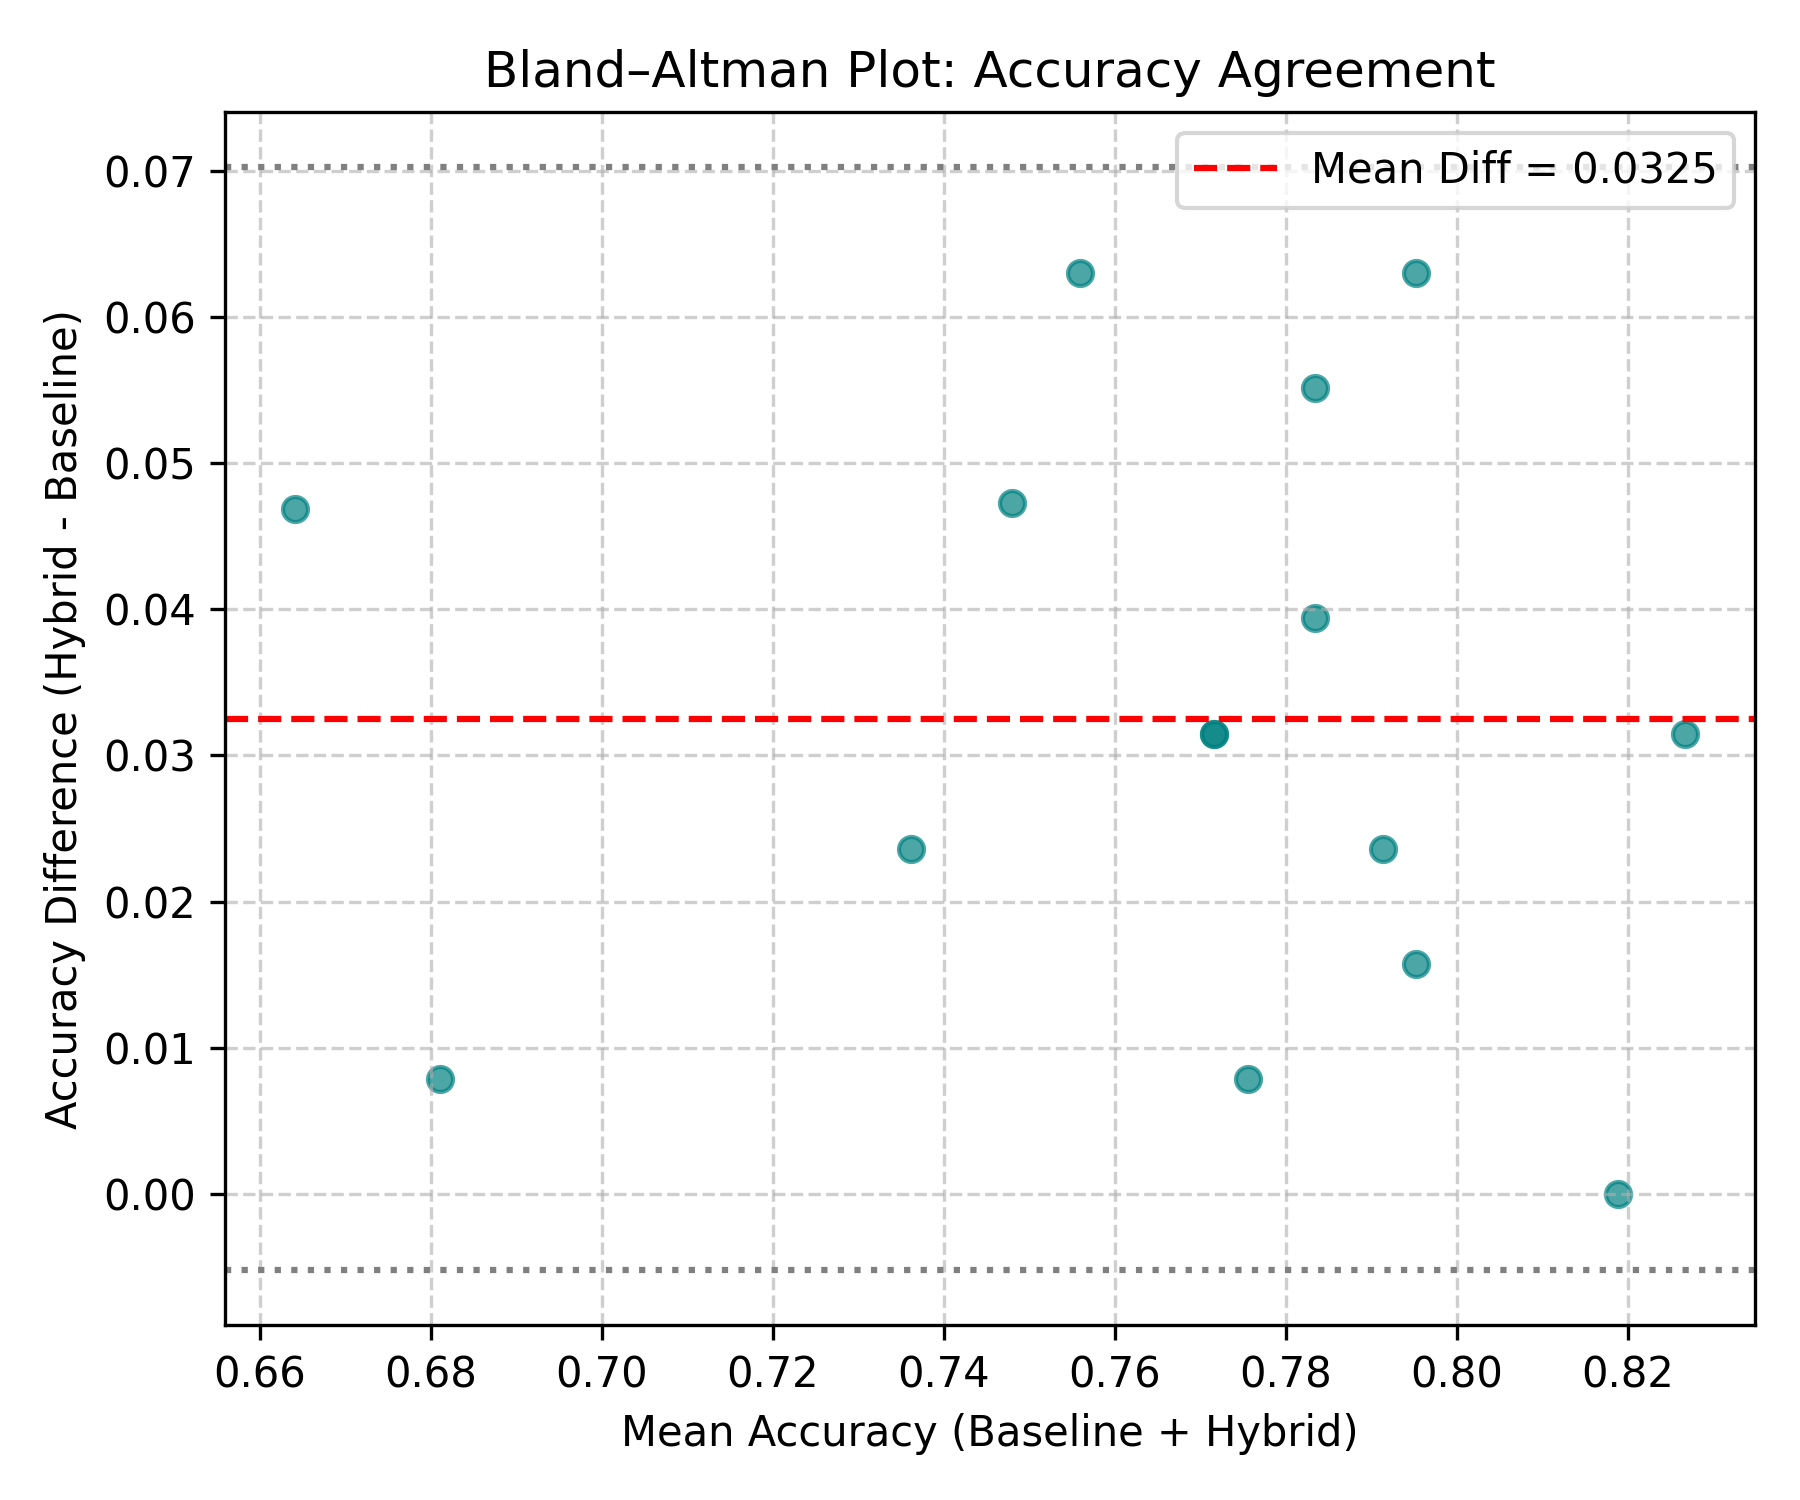
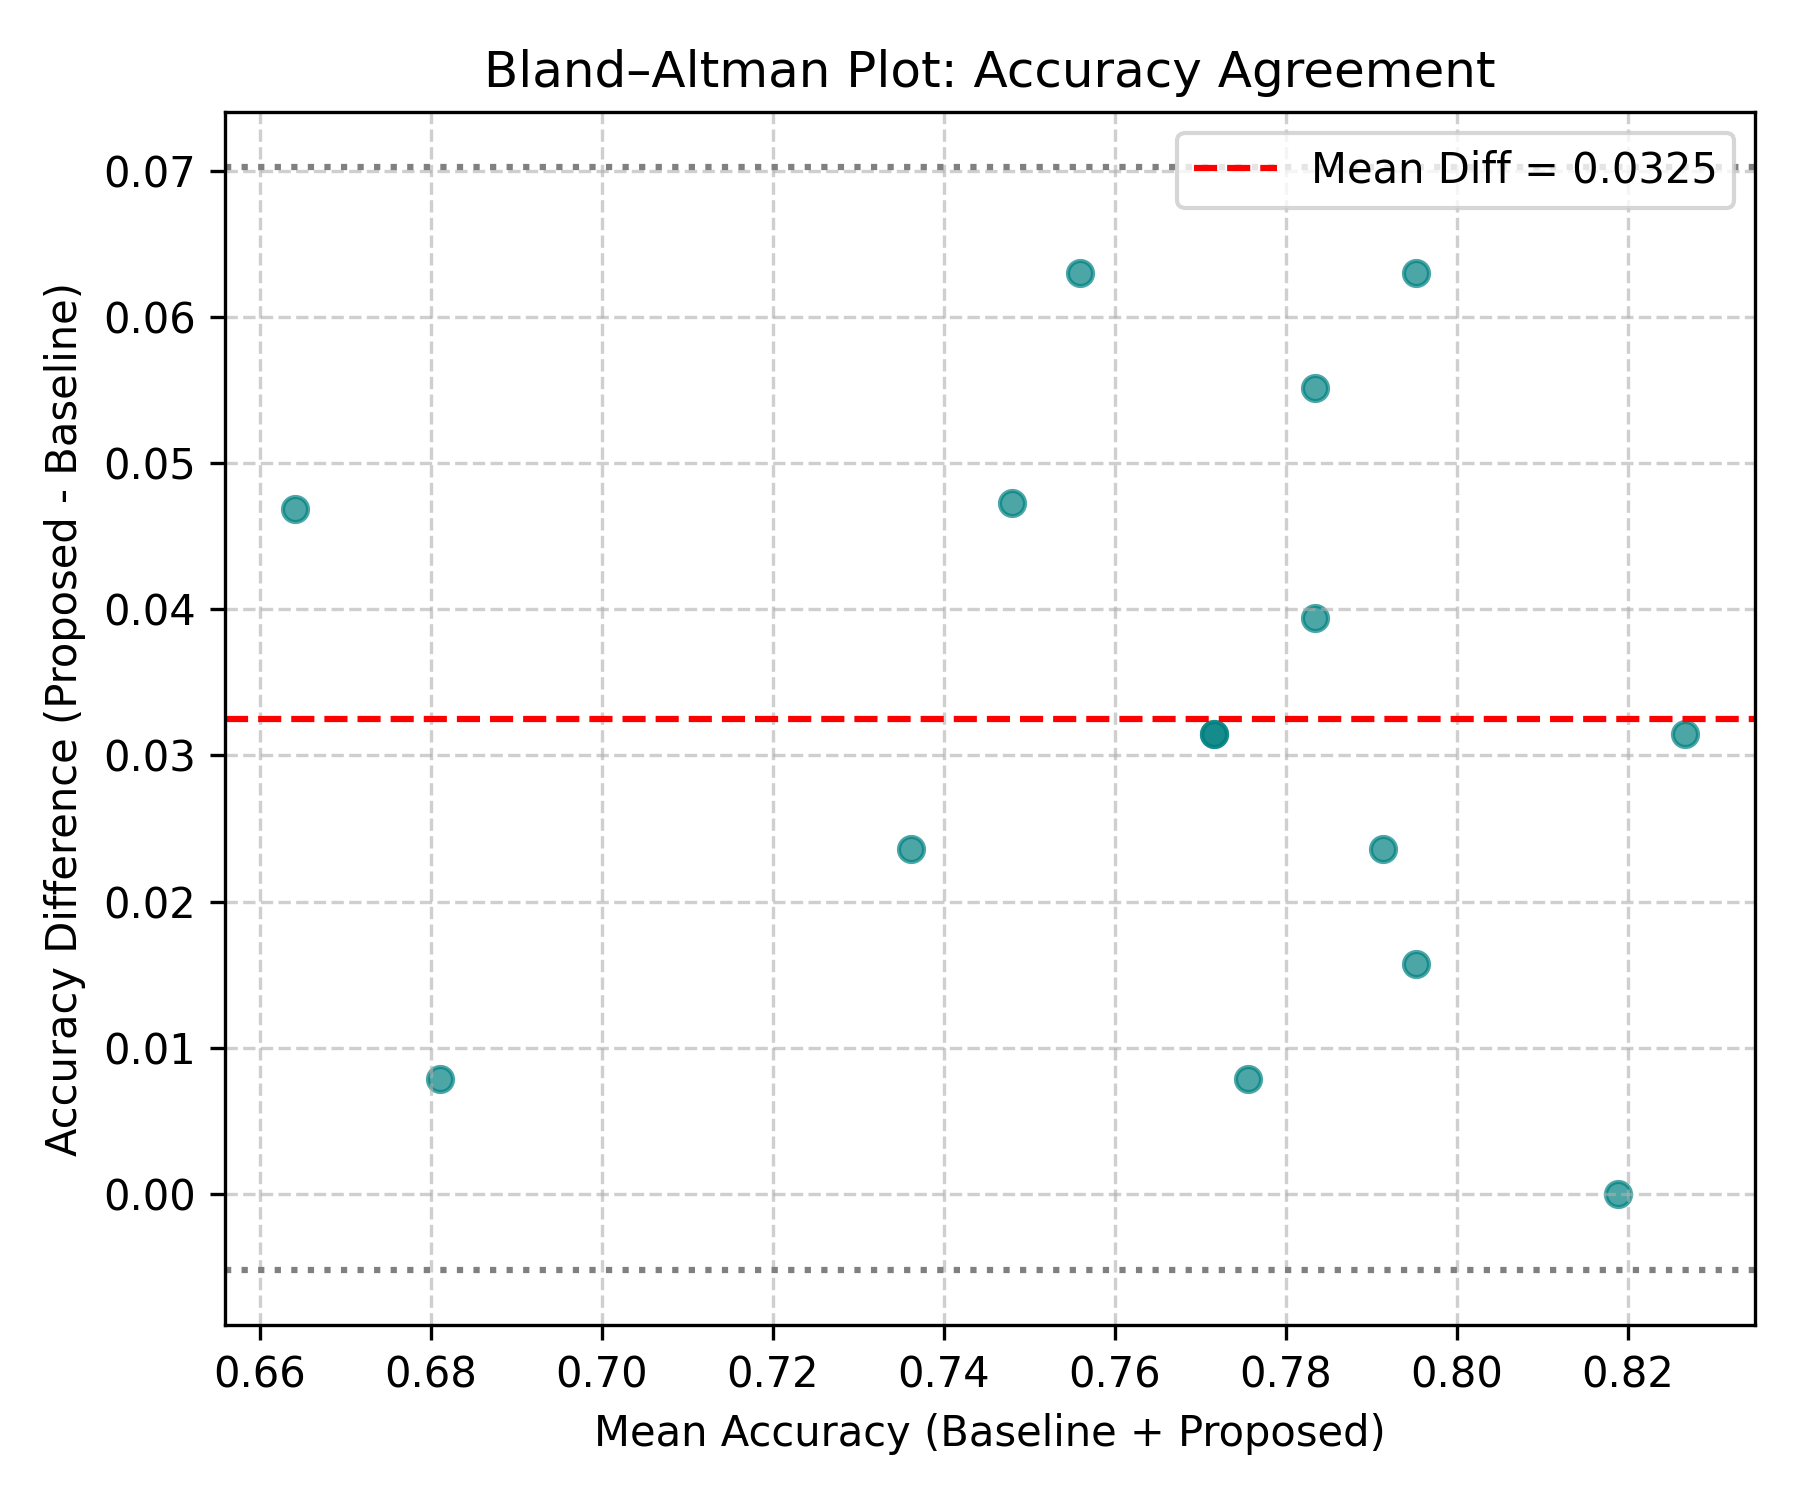
minor corrections

Changed region(s): [[0.0, 0.184, 0.0622, 0.7667], [0.3422, 0.92, 0.7778, 0.9813]]

diff --git a/TikTokThesis/src/baseline_hybrid_comparison_plots.py b/TikTokThesis/src/baseline_hybrid_comparison_plots.py
@@ -37,7 +37,7 @@ x = np.arange(len(metrics))
 width = 0.35
 plt.figure(figsize=(6,5))
 plt.bar(x - width/2, base_means, width, label="Baseline (RF)")
-plt.bar(x + width/2, hyb_means, width, label="Hybrid (RF + GNN)")
+plt.bar(x + width/2, hyb_means, width, label="Proposed (RF + GNN)")
 plt.xticks(x, metrics)
 plt.ylabel("Score")
 plt.ylim(0.6, 1.0)
@@ -48,22 +48,10 @@ plt.tight_layout()
 plt.savefig(GRAPHS_DIR / "bar_chart_mean_performance.png", dpi=300)
 plt.close()
 
-# # === 2⃣ Line plot of per-fold accuracy === USED FOR PAIRED T-TEST
-# plt.figure(figsize=(8,5))
-# plt.plot(baseline_metrics["fold"], baseline_metrics["test_acc"], marker='o', label="Baseline (RF)")
-# plt.plot(hybrid_metrics["fold"], hybrid_metrics["test_acc"], marker='o', label="Hybrid (RF + GNN)")
-# plt.xlabel("Fold")
-# plt.ylabel("Test Accuracy")
-# plt.title("Fold-wise Accuracy Comparison")
-# plt.legend()
-# plt.grid(True, linestyle='--', alpha=0.6)
-# plt.tight_layout()
-# plt.show()
-
 # === 3⃣ Box plot of accuracy distribution ===
 data = pd.DataFrame({
     "Accuracy": np.concatenate([baseline_metrics["test_acc"], hybrid_metrics["test_acc"]]),
-    "Model": ["Baseline (RF)"] * len(baseline_metrics) + ["Hybrid (RF + GNN)"] * len(hybrid_metrics)
+    "Model": ["Baseline (RF)"] * len(baseline_metrics) + ["Proposed (RF + GNN)"] * len(hybrid_metrics)
 })
 
 plt.figure(figsize=(6,5))
@@ -90,7 +78,7 @@ try:
     ConfusionMatrixDisplay(cm_base, display_labels=["Real", "Fake"]).plot(ax=axs[0], cmap="Blues", colorbar=False)
     axs[0].set_title("Baseline (RF)")
     ConfusionMatrixDisplay(cm_hyb, display_labels=["Real", "Fake"]).plot(ax=axs[1], cmap="Greens", colorbar=False)
-    axs[1].set_title("Hybrid (RF + GNN)")
+    axs[1].set_title("Proposed (RF + GNN)")
     plt.suptitle("Confusion Matrix Comparison")
     plt.tight_layout()
     plt.savefig(GRAPHS_DIR / "cm_baseline_hybrid_comp.png", dpi=300)
@@ -107,8 +95,8 @@ plt.scatter(mean, diff, color="teal", alpha=0.7)
 plt.axhline(np.mean(diff), color='red', linestyle='--', label=f"Mean Diff = {np.mean(diff):.4f}")
 plt.axhline(np.mean(diff) + 1.96*np.std(diff), color='gray', linestyle=':')
 plt.axhline(np.mean(diff) - 1.96*np.std(diff), color='gray', linestyle=':')
-plt.xlabel("Mean Accuracy (Baseline + Hybrid)")
-plt.ylabel("Accuracy Difference (Hybrid - Baseline)")
+plt.xlabel("Mean Accuracy (Baseline + Proposed)")
+plt.ylabel("Accuracy Difference (Proposed - Baseline)")
 plt.title("Bland–Altman Plot: Accuracy Agreement")
 plt.legend()
 plt.grid(True, linestyle='--', alpha=0.6)
@@ -126,7 +114,7 @@ hybrid_means = hybrid_metrics[metrics].mean()
 summary_df = pd.DataFrame({
     "Metric": ["Accuracy", "Precision", "Recall", "F1-score"],
     "Baseline": baseline_means.values,
-    "Hybrid": hybrid_means.values
+    "Proposed": hybrid_means.values
 })
 
 summary_df.to_csv(GRAPHS_DIR / "model_comparison_summary.csv", index=False)
@@ -140,7 +128,7 @@ angles = np.linspace(0, 2 * np.pi, num_vars, endpoint=False).tolist()
 angles += angles[:1]
 
 baseline_values = summary_df["Baseline"].tolist()
-hybrid_values = summary_df["Hybrid"].tolist()
+hybrid_values = summary_df["Proposed"].tolist()
 baseline_values += baseline_values[:1]
 hybrid_values += hybrid_values[:1]
 
@@ -155,7 +143,7 @@ width = 0.35
 
 # Bar Chart
 axs[0,0].bar(x - width/2, summary_df["Baseline"], width, label="Baseline (RF)", color="#4C72B0")
-axs[0,0].bar(x + width/2, summary_df["Hybrid"], width, label="Hybrid (RF + GNN)", color="#DD8452")
+axs[0,0].bar(x + width/2, summary_df["Proposed"], width, label="Proposed (RF + GNN)", color="#DD8452")
 axs[0,0].set_xticks(x)
 axs[0,0].set_xticklabels(summary_df["Metric"])
 axs[0,0].set_title("Mean Metrics")
@@ -164,7 +152,7 @@ axs[0,0].grid(alpha=0.3, linestyle='--')
 
 # Fold-wise Accuracy
 axs[0,1].plot(baseline_metrics["fold"], baseline_metrics["test_acc"], marker='o', label="Baseline", color="#4C72B0")
-axs[0,1].plot(hybrid_metrics["fold"], hybrid_metrics["test_acc"], marker='o', label="Hybrid", color="#DD8452")
+axs[0,1].plot(hybrid_metrics["fold"], hybrid_metrics["test_acc"], marker='o', label="Proposed", color="#DD8452")
 axs[0,1].set_title("Fold-wise Accuracy")
 axs[0,1].set_xlabel("Fold")
 axs[0,1].set_ylabel("Accuracy")
@@ -173,7 +161,7 @@ axs[0,1].grid(alpha=0.3, linestyle='--')
 
 # Fold-wise F1
 axs[1,0].plot(baseline_metrics["fold"], baseline_metrics["test_f1"], marker='x', linestyle='--', label="Baseline F1", color="#6A5ACD")
-axs[1,0].plot(hybrid_metrics["fold"], hybrid_metrics["test_f1"], marker='x', linestyle='--', label="Hybrid F1", color="#FF7F0E")
+axs[1,0].plot(hybrid_metrics["fold"], hybrid_metrics["test_f1"], marker='x', linestyle='--', label="Proposed F1", color="#FF7F0E")
 axs[1,0].set_title("Fold-wise F1-score")
 axs[1,0].set_xlabel("Fold")
 axs[1,0].set_ylabel("F1-score")
@@ -189,7 +177,7 @@ ax.fill(angles, hybrid_values, color="#DD8452", alpha=0.25)
 plt.xticks(angles[:-1], labels)
 ax.set_title("Radar Plot – Model Comparison", y=1.1)
 
-plt.suptitle("Baseline (RF) vs Hybrid (RF + GNN) Model Performance", fontsize=14)
+plt.suptitle("Baseline (RF) vs Proposed (RF + GNN) Model Performance", fontsize=14)
 plt.tight_layout(rect=[0, 0, 1, 0.96])
 plt.savefig(GRAPHS_DIR / "combined_model_comparison.png", dpi=300)
 plt.close()
@@ -200,11 +188,11 @@ plt.plot(hybrid_metrics["fold"], hybrid_metrics["train_acc"], marker='o', label=
 plt.plot(hybrid_metrics["fold"], hybrid_metrics["test_acc"], marker='x', label="Test Accuracy", color="#ff7f0e")
 plt.xlabel("Fold")
 plt.ylabel("Accuracy")
-plt.title("Train vs Test Accuracy (Hybrid Model: RF + GNN)")
+plt.title("Train vs Test Accuracy (Proposed Model: RF + GNN)")
 plt.legend()
 plt.grid(True, linestyle='--', alpha=0.6)
 plt.tight_layout()
-plt.savefig(GRAPHS_DIR / "train_vs_test_accuracy_hybrid.png", dpi=300)
+plt.savefig(GRAPHS_DIR / "train_vs_test_accuracy_proposed.png", dpi=300)
 plt.close()
 
 

diff --git a/TikTokThesis/src/statistical_testing_plots.py b/TikTokThesis/src/statistical_testing_plots.py
@@ -42,7 +42,7 @@ plt.figure(figsize=(10,4))
 plt.subplot(1,2,1)
 sns.histplot(diff, kde=True, color="skyblue", bins=10)
 x = np.linspace(min(diff), max(diff), 100)
-plt.title("Histogram of Accuracy Differences (Hybrid - Baseline)")
+plt.title("Histogram of Accuracy Differences (Proposed - Baseline)")
 plt.xlabel("Accuracy Difference")
 
 plt.subplot(1,2,2)
@@ -56,27 +56,49 @@ plt.close()
 
 plt.figure(figsize=(8,5))
 plt.plot(baseline_metrics["fold"], baseline_metrics["test_acc"], marker='o', label="Baseline (RF)")
-plt.plot(hybrid_metrics["fold"], hybrid_metrics["test_acc"], marker='o', label="Hybrid (RF + GNN)")
+plt.plot(hybrid_metrics["fold"], hybrid_metrics["test_acc"], marker='o', label="Proposed (RF + GNN)")
 plt.xlabel("Fold")
 plt.ylabel("Test Accuracy")
 plt.title("Fold-wise Accuracy Comparison (Paired t-test)")
 plt.legend()
 plt.grid(True, linestyle='--', alpha=0.6)
 plt.tight_layout()
-plt.savefig(GRAPHS_DIR / "t_test_paired_line.png", dpi=300)
+plt.savefig(GRAPHS_DIR / "two_tailed_t_test_paired_line.png", dpi=300)
 plt.close()
 
-# # Boxplot of accuracy differences
-# plt.figure(figsize=(5,5))
-# sns.boxplot(y=diff, color="lightgreen")
-# plt.axhline(0, color='red', linestyle='--', label="No Difference")
-# plt.title("Distribution of Accuracy Differences (Hybrid - Baseline)")
-# plt.ylabel("Accuracy Difference")
-# plt.legend()
-# plt.tight_layout()
-# plt.show()
 
-# print("✅ Displayed paired accuracy comparisons and difference distribution.")
+# Compute differences
+diff = hybrid["test_acc"].values - baseline["test_acc"].values
+
+# Two-tailed test
+t_stat, p_two = stats.ttest_rel(hybrid["test_acc"], baseline["test_acc"])
+
+# Convert to one-tailed
+if t_stat > 0:
+    p_one = p_two / 2
+else:
+    p_one = 1 - (p_two / 2)
+
+# === One-tailed visualization ===
+plt.figure(figsize=(7,5))
+
+# Scatter of per-fold differences
+plt.scatter(range(1, len(diff)+1), diff, color="purple")
+plt.axhline(0, color='gray', linestyle='--', linewidth=1)
+
+# Mean diff line
+plt.axhline(diff.mean(), color='red', linestyle='-', label=f"Mean Diff = {diff.mean():.4f}")
+
+plt.title(f"One-Tailed Paired t-Test (Proposed > Baseline)\n"
+          f"t = {t_stat:.4f},  p(one-tailed) = {p_one:.6f}")
+plt.xlabel("Fold")
+plt.ylabel("Accuracy Difference (Proposed - Baseline)")
+plt.legend()
+plt.grid(True, linestyle='--', alpha=0.5)
+
+plt.tight_layout()
+plt.savefig(GRAPHS_DIR / "one_tailed_ttest_plot.png", dpi=300)
+plt.close()
 
 # === 3⃣ McNemar’s Test Visualization ===
 
@@ -91,7 +113,7 @@ n01 = ((correct_baseline == 1) & (correct_hybrid == 0)).sum()
 n10 = ((correct_baseline == 0) & (correct_hybrid == 1)).sum()
 
 plt.figure(figsize=(6,5))
-sns.barplot(x=["Baseline Correct / Hybrid Wrong", "Baseline Wrong / Hybrid Correct"], y=[n01, n10], palette="pastel")
+sns.barplot(x=["Baseline Correct / Proposed Wrong", "Baseline Wrong / Proposed Correct"], y=[n01, n10], palette="pastel")
 plt.title("McNemar’s Test Discordant Cases")
 plt.ylabel("Count of Instances")
 plt.tight_layout()

diff --git a/TikTokThesis/src/feature_analysis.py b/TikTokThesis/src/feature_analysis.py
@@ -51,7 +51,7 @@ print(feat_df.head(10))
 plt.figure(figsize=(10, 6))
 sns.barplot(data=feat_df.head(20),
             x="importance", y="feature", palette="viridis")
-plt.title("Top 20 Feature Importances (Hybrid RF+GNN)")
+plt.title("Top 20 Feature Importances (Proposed RF+GNN)")
 plt.xlabel("Importance Score")
 plt.ylabel("Feature")
 plt.tight_layout()
@@ -63,7 +63,7 @@ plt.savefig(GRAPHS_DIR / "feature_importance.png", dpi=300)
 
 plt.figure(figsize=(8, 5))
 sns.histplot(fold_df["test_acc"], kde=True, bins=10)
-plt.title("Distribution of Fold Test Accuracy (Hybrid Model)")
+plt.title("Distribution of Fold Test Accuracy (Proposed Model)")
 plt.xlabel("Accuracy")
 plt.ylabel("Count")
 plt.savefig(GRAPHS_DIR / "acc_dist.png", dpi=300)
@@ -73,7 +73,7 @@ plt.savefig(GRAPHS_DIR / "acc_dist.png", dpi=300)
 
 plt.figure(figsize=(8, 5))
 sns.histplot(fold_df["test_f1"], kde=True, color="orange", bins=10)
-plt.title("Distribution of Fold Test F1 Score (Hybrid Model)")
+plt.title("Distribution of Fold Test F1 Score (Proposed Model)")
 plt.xlabel("F1 Score")
 plt.ylabel("Count")
 plt.savefig(GRAPHS_DIR / "f1_dist.png", dpi=300)
@@ -86,7 +86,7 @@ sns.histplot(hybrid_df[hybrid_df["label"] == 0]["predicted_proba"],
              color="green", kde=True, label="Real")
 sns.histplot(hybrid_df[hybrid_df["label"] == 1]["predicted_proba"],
              color="red", kde=True, label="Fake")
-plt.title("Probability Distribution of Hybrid Model Outputs")
+plt.title("Probability Distribution of Proposed Model Outputs")
 plt.xlabel("Predicted Fake Probability")
 plt.legend()
 plt.savefig(GRAPHS_DIR / "prob_hist.png", dpi=300)

diff --git a/TikTokThesis/src/statistical_tests.py b/TikTokThesis/src/statistical_tests.py
@@ -36,9 +36,19 @@ def run_tests():
 
     # Paired t-test
     print("\nPaired t-test for Normally Distributed Data")
-    t_stat, t_p = ttest_rel(hybrid_acc,baseline_acc)
+    t_stat, t_p_two = ttest_rel(hybrid_acc,baseline_acc)
     test_used = "Paired t-test"
-    print(f"{test_used} -> t = {t_stat:.4f}, p = {t_p:.10f}")
+    print(f"{test_used} -> t = {t_stat:.4f}, p = {t_p_two:.10f}")
+
+    print("\nOne-Tailed Paired t-test (Hybrid > Baseline)")
+
+    # Convert to one-tailed p-value
+    if t_stat > 0:
+        t_p_one = t_p_two / 2
+    else:
+        t_p_one = 1 - (t_p_two / 2)
+
+    print(f"t = {t_stat:.4f}, p(one-tailed) = {t_p_one:.10f}")
 
     print("\nMcNemar's Test (Prediction Agreement)")
 
@@ -69,7 +79,6 @@ def run_tests():
     table = [[0, n01],
             [n10, 0]]
 
-    from statsmodels.stats.contingency_tables import mcnemar
     result = mcnemar(table, exact=False, correction=True)  # chi-square approximation
     print(f"McNemar’s χ² = {result.statistic:.4f}, p = {result.pvalue:.10f}")
 
@@ -83,7 +92,8 @@ def run_tests():
         "Normality": normality,
         "Test_used": test_used,
         "T_stat": t_stat,
-        "T_p": t_p,
+        "T_p_two_tailed": t_p_two,
+        "T_p_one_tailed": t_p_one,
         "McNemar_stat": result.statistic,
         "McNemar_p": result.pvalue,
         "Baseline_mean_acc": np.mean(baseline_acc),
